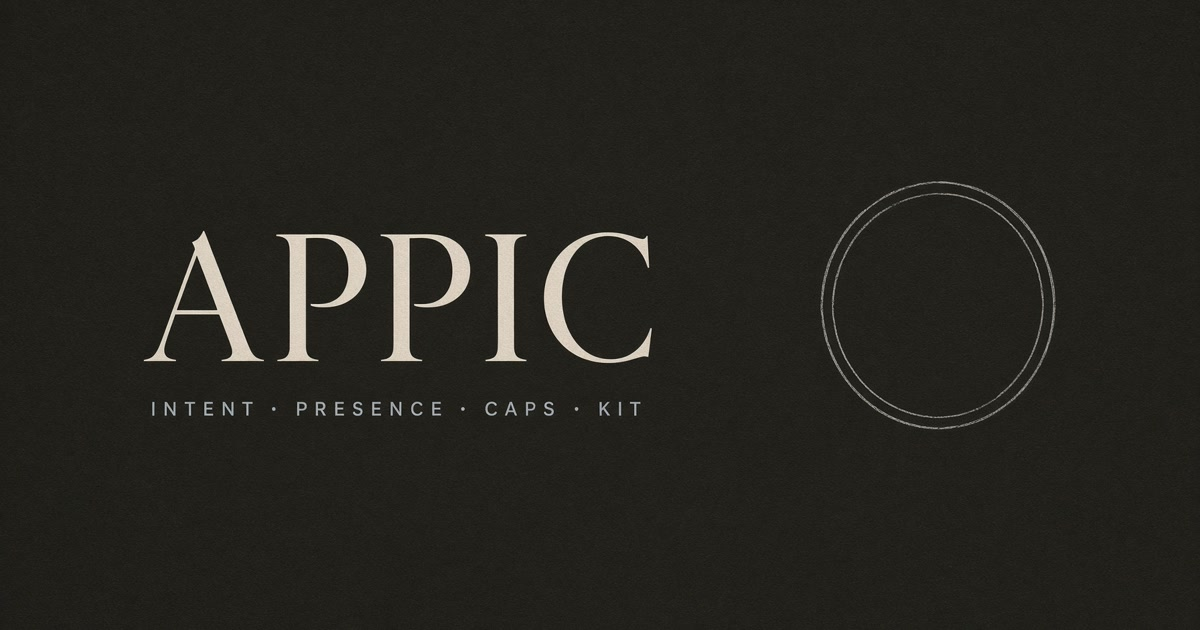
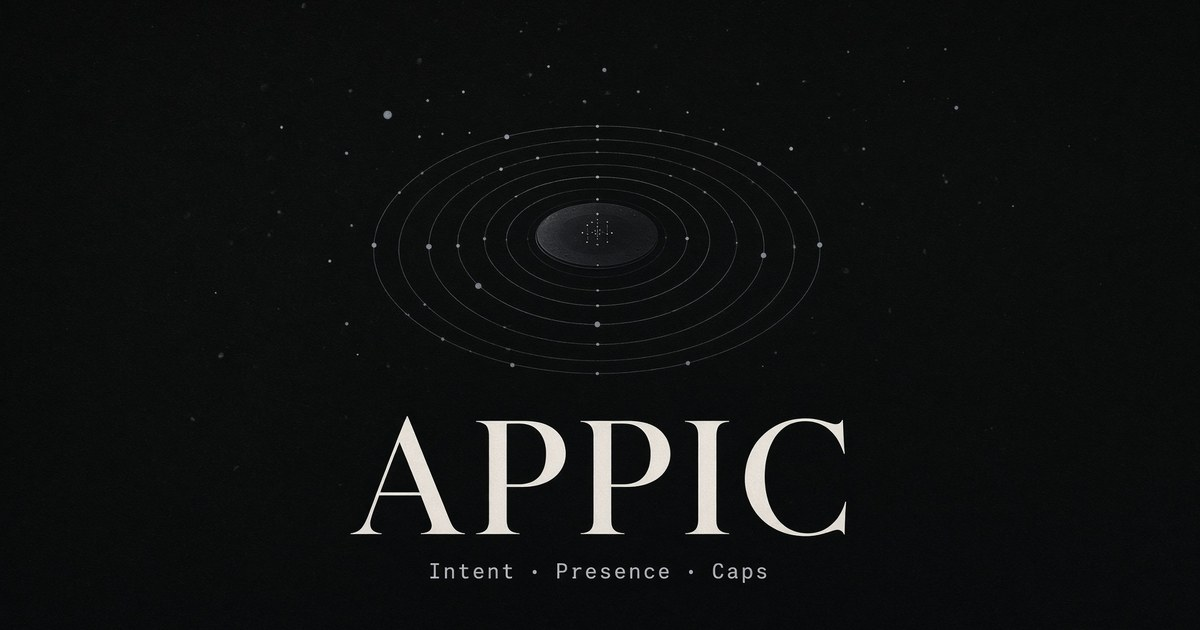
Constellation table: 14 rooms as named stars around the nucleus.
Sight is MorphState. Walk is Clock A. Pulse still binds Clock B.
Updated Grok Build metaprompt and share card for ux-compose 7ea3eb8.

diff --git a/appic/static/css/appic.css b/appic/static/css/appic.css
@@ -537,6 +537,86 @@ table.data th { color: var(--fg-subtle); font-weight: 500; }
   border: 1px solid var(--border);
   background: var(--bg-elevated);
 }
+.bench.is-on { border-color: var(--border-strong); color: var(--fg); }
+.bench-name { font-family: var(--font-display); }
+
+.constellation {
+  position: relative;
+  min-height: min(62vh, 560px);
+  border: 1px solid var(--border);
+  border-radius: var(--radius-xl);
+  background:
+    radial-gradient(circle at 50% 50%, color-mix(in oklab, var(--fg) 7%, transparent), transparent 44%),
+    radial-gradient(900px 420px at 8% -8%, color-mix(in oklab, var(--accent) 6%, transparent), transparent 55%),
+    var(--bg-elevated);
+  overflow: hidden;
+}
+.constellation::before,
+.constellation::after {
+  content: "";
+  position: absolute;
+  inset: 18%;
+  border-radius: 50%;
+  border: 1px solid var(--border);
+  pointer-events: none;
+}
+.constellation::after { inset: 8%; opacity: 0.55; }
+.constellation .nucleus {
+  position: absolute;
+  left: 50%; top: 50%;
+  transform: translate(-50%, -50%);
+  width: min(240px, 58%);
+  text-align: center;
+  display: grid; gap: 8px; justify-items: center;
+  padding: var(--space-5);
+  border-radius: 50%;
+  border: 1px solid var(--border-strong);
+  background: color-mix(in oklab, var(--surface) 90%, transparent);
+  z-index: 2;
+}
+.nucleus-name {
+  font-family: var(--font-display);
+  font-size: 1.35rem;
+  letter-spacing: var(--tracking-display);
+}
+.star {
+  position: absolute;
+  transform: translate(-50%, -50%);
+  z-index: 3;
+  display: grid;
+  justify-items: center;
+  gap: 6px;
+  min-width: 72px;
+  min-height: 44px;
+  padding: 6px;
+  color: var(--fg-muted);
+  background: transparent;
+}
+.star-dot {
+  width: 8px; height: 8px;
+  border-radius: 50%;
+  background: var(--fg-muted);
+  box-shadow: 0 0 0 6px color-mix(in oklab, var(--fg) 4%, transparent);
+}
+.star-name {
+  font-family: var(--font-display);
+  font-size: 0.92rem;
+  letter-spacing: var(--tracking-display);
+}
+.star.is-on { color: var(--fg); }
+.star.is-on .star-dot {
+  background: var(--accent);
+  box-shadow:
+    0 0 0 8px color-mix(in oklab, var(--accent) 14%, transparent),
+    0 0 18px color-mix(in oklab, var(--accent) 35%, transparent);
+}
+.star:hover { color: var(--fg); }
+
+@media (max-width: 720px) {
+  .constellation { min-height: 420px; }
+  .constellation .nucleus { width: min(200px, 70%); padding: var(--space-4); }
+  .star-name { font-size: 0.75rem; }
+}
 .bench.is-on { border-color: var(--border-strong); background: var(--surface); }
 .bench-name { font-family: var(--font-display); }
 

diff --git a/appic/routes/home.py b/appic/routes/home.py
@@ -37,6 +37,25 @@ BENCHES = (
     ("you", "You", "table · intent"),
 )
 
+# Foundry floor. Positions are percent of the constellation sky.
+# Nucleus is the Table. Stars are rooms you can sight, then walk.
+STARS = (
+    ("door", "/enter", "Door", 10, 22, "Login and OTP. Caps on the hinge."),
+    ("desk", "/desk", "Desk", 28, 10, "Sidebar, Command, pull to refresh."),
+    ("house", "/house", "House", 52, 7, "Anchored family. Typeahead delay."),
+    ("visit", "/visit", "Visit", 74, 16, "Stepper, Plans, Dialog confirm."),
+    ("signal", "/signal", "Signal", 90, 32, "Wave 1. Handle threshold:48."),
+    ("author", "/author", "Author", 92, 56, "act / tick / field / maybe_*."),
+    ("press", "/copy", "Press", 82, 78, "copy_component. Not a card."),
+    ("chrome", "/overlay", "Chrome", 60, 90, "OverlayChrome. Edge family."),
+    ("notes", "/notes", "Notes", 38, 92, "AttachNote. Silence was the defect."),
+    ("atelier", "/atelier", "Atelier", 16, 84, "Presence. stagger_in. share."),
+    ("lattice", "/lattice", "Lattice", 6, 60, "Caps as seals. Intent nucleus."),
+    ("trace", "/trace", "Trace", 8, 40, "Doctor. Hard vs teaching."),
+    ("clocks", "/clocks", "Clocks", 40, 18, "GET is Clock A. Action is B."),
+    ("relay", "/relay", "Relay", 70, 44, "Three serve clocks. Soft morph."),
+)
+
 
 class Home(Component):
     id = "home"
@@ -44,6 +63,14 @@ class Home(Component):
     stamp = MorphState("idle")
     query = MorphState("")
     bench = MorphState("you")
+    sight = MorphState("table")
+
+    def _sighted(self):
+        key = str(self.sight or "table")
+        for row in STARS:
+            if row[0] == key:
+                return row
+        return ("table", "/", "Table", 50, 50, "The document is the composition root made visible.")
 
     def render(self):
         n = int(HOST.pulse or 0)
@@ -69,6 +96,20 @@ class Home(Component):
             )
             for key, name, role in BENCHES
         ]
+        seen = self._sighted()
+        stars = [
+            button(
+                span("", className="star-dot", aria_hidden="true"),
+                span(label, className="star-name"),
+                type="button",
+                className="star" + (" is-on" if self.sight == key else ""),
+                id=f"star-{key}",
+                style=f"left:{x}%;top:{y}%",
+                title=law,
+                **control("home.sight", room=key),
+            )
+            for key, href, label, x, y, law in STARS
+        ]
         return section(
             div(
                 span("page unit · App.mount · progressive L3 · Morph then Play", className="eyebrow"),
@@ -78,9 +119,9 @@ class Home(Component):
                     className="hero-title",
                 ),
                 p(
-                    "A foundry OS authored as legal Results of Ops. "
-                    "You issue intent. The document morphs. Caps gate the verbs that charge. "
-                    "The kit is a house you own. Signal is a grammar you can feel.",
+                    "A nocturnal foundry OS. You issue intent. The document morphs. "
+                    "Caps gate the verbs that charge. The kit is a house you own. "
+                    "Sight a star. Walk the room. The law is under your finger.",
                     className="lede",
                 ),
                 div(
@@ -106,6 +147,7 @@ class Home(Component):
                     span(f"L{int(Level(HOST.level) if HOST.level else 0)}", className="chip is-on"),
                     span(f"ux-compose {__version__}", className="chip"),
                     span(f"HAS_DOM · {'on' if HAS_DOM else 'shim'}", className="chip"),
+                    span("constellation · 14 rooms", className="chip"),
                     className="chip-row",
                 ),
                 form(
@@ -124,6 +166,31 @@ class Home(Component):
                     data_ux="1",
                 ),
                 className="hero",
+            ),
+            div(
+                div(
+                    h2("Constellation"),
+                    p(
+                        "Every public surface of ux-compose sits in a room. "
+                        "Sight a star — MorphState names the pose. Walk it — Clock A GET.",
+                        className="muted",
+                    ),
+                    className="section-head spread",
+                ),
+                div(
+                    *stars,
+                    div(
+                        span("sighted", className="nucleus-kicker"),
+                        span(seen[2], className="nucleus-name"),
+                        p(seen[5], className="muted tiny"),
+                        a("Walk this room", href=seen[1], className="btn btn-primary"),
+                        className="nucleus",
+                        id="constellation-nucleus",
+                    ),
+                    className="constellation",
+                    id="constellation",
+                ),
+                className="house",
             ),
             div(
                 article(
@@ -209,6 +276,18 @@ class Home(Component):
             self,
             maybe_plan("seat", f"#bench-{self.bench}", ms=120),
             extra_ops=[notify(f"seated · {self.bench}")],
+        )
+
+    @action(caps=())
+    def sight(self, room: str = "table", **kwargs):
+        keys = {row[0] for row in STARS}
+        self.sight = room if room in keys else "table"
+        tick(self)
+        label = self._sighted()[2]
+        return update_with(
+            self,
+            maybe_plan("sight", "#constellation-nucleus", ms=120),
+            extra_ops=[notify(f"sighted · {label}")],
         )
 
 

diff --git a/appic/server.py b/appic/server.py
@@ -24,9 +24,8 @@ NAV = (
     ("/", "Table"),
     ("/enter", "Door"),
     ("/house", "House"),
-    ("/copy", "Copy"),
-    ("/author", "Author"),
     ("/copy", "Press"),
+    ("/author", "Author"),
     ("/overlay", "Chrome"),
     ("/atelier", "Atelier"),
     ("/trace", "Trace"),

diff --git a/GROK_BUILD_PROMPT.md b/GROK_BUILD_PROMPT.md
@@ -1,5 +1,5 @@
 # Grok Build prompt — APPIC on ux-compose 0.1.0
-## Architecture era · full utilisation: ownership ritual, doctor scan families, presence cookbook
+## Architecture era · full utilisation · constellation table
 
 Pin: [bitplorer/ux-compose](https://github.com/bitplorer/ux-compose) `@ main`
 SHA **`7ea3eb8813d280a975c4a41d23a2e2d4de40a506`**.
@@ -23,15 +23,23 @@ continuity is unfinished.
 Repo **appic already exists**. Do not create a second repo. Consume the
 running foundry; upgrade it; replace stale files that predate this pin.
 
-### Executed 2026-09-03 (this Grok Build)
+### Executed 2026-09-04 (this Grok Build)
 
 Deep-dived `ux_compose.__all__`, kit `CATALOG` (23 stems), `kit/copy.py`
 (not a card), OverlayChrome, author door, attach notes, doctor scan
 families, Presence cookbook, Clock A payload doors, Wave 1 Signal.
-Library SHA unchanged. Closed the last hole: **`/copy` is a live Press
-room** — `copy_component` / `find_app_root` / `KitCopyError` / 23 owned
-stems / OverlayChrome-not-a-stem. Pulse morph verified (Clock B). Serve
-is uvicorn on `0.0.0.0:8080`. No React / JS / TS / TSX as source of truth.
+Library SHA unchanged. This generation closes the **constellation table**:
+14 rooms as named stars around the Table nucleus. Sight is MorphState.
+Walk is Clock A. Pulse still uses `bind(self.beat)`. Serve is uvicorn on
+`0.0.0.0:8080`. No React / JS / TS / TSX as source of truth.
+
+Previous generations shipped Clock A, the ownable kit, Wave 1 Signal,
+Typeahead hits-slot, Relay, ADR 0004 rooms, `/copy` press, doctor residuals,
+Presence cookbook. A foundry that hides its rooms as a gallery is unfinished.
+A foundry whose table is a constellation is the product.
+
+Repo **appic already exists**. Do not create a second repo. Consume the
+running foundry; upgrade it; replace stale files that predate this pin.
 
 ---
 
@@ -825,7 +833,7 @@ for sheets and action sheets (x=28 / y=32); fade scrim + rise panel for dialogs.
 
 | Path | Unit | Must exercise |
 |---|---|---|
-| `/` Table | `Index` | Pulse counter+stamp via official `tick()`, **`bind(self.beat)`**, intent field, KPI, benches, last Ops, `Level` badge, `__version__` chip, doors into Desk / House / Visit / Enter / Signal / Author / Notes / Overlay / Copy |
+| `/` Table | `Index` | Pulse counter+stamp via official `tick()`, **`bind(self.beat)`**, intent field, KPI, benches, last Ops, **constellation of 14 rooms** (sight is MorphState, walk is Clock A), `Level` badge, `__version__` chip, doors into Desk / House / Visit / Enter / Signal / Author / Notes / Overlay / Copy |
 | `/atelier` | `Atelier` | Shelf filter/sort/`stagger_in`, wishlist, compare≤3, lightbox, add-to-bag, link to PDP. **Presence cookbook** named on the sort |
 | `/atelier/{sku}` | `Sku` | DirectoryRoutes `[sku]`. **No `get`.** `render(self, sku="")`. `scene.share` into bag |
 | `/commission` | `Commission` | 4-step wizard + radio/checkbox/slider/date/file/password/autosave/limited note/OTP Cap `identity.verify` (`2048`) / place Cap `orders.place` |
@@ -863,7 +871,8 @@ Login blocked: `@blocked.test`. OTP refuse: `000000`.
 ### Radical interactions (must all work)
 
 1. **Hold an intent on the Table.** Type a verb, press the nucleus, Clock B
-   fires, Trace records the Op, Lattice lights the matching star.
+   fires, Trace records the Op, Lattice lights the matching star. **Sight a
+   constellation star** — MorphState names the pose; Walk is Clock A GET.
 2. **Walk through the Door.** Sign in (Login Cap). Verify (OTP Cap). The ribbon
    bursts a wax seal. `@blocked.test` is refused.
 3. **Sit at the Desk.** Pull-to-refresh the ledger. Command palette `⌘K` posts

diff --git a/README.md b/README.md
@@ -20,6 +20,9 @@ by teaching. Presence is continuous.
 copied by hand, `copy_component` / `find_app_root` / `KitCopyError` made
 visible. Pressing an owned stem reports already-owned; unknown stems fail closed.
 
+The Table is a **constellation** (2026-09-04): 14 rooms as named stars around
+the nucleus. Sight is MorphState. Walk is Clock A.
+
 ## Run
 
 ```bash
@@ -37,7 +40,7 @@ uxcompose serve dev
 
 | Path | Room |
 |------|------|
-| `/` | Table — pulse, hold an intent, sit a bench |
+| `/` | Table — pulse, hold an intent, sight a constellation star, sit a bench |
 | `/enter` | Door — owned Login + OTP. Caps `auth.login` / `auth.otp` |
 | `/desk` | Desk — Sidebar, Breadcrumb, Tabs, PullRefresh, Accordion, Command, Toast |
 | `/house` | House — Typeahead, Combobox, Select, Dropdown, Sheet, Carousel, Table, Pagination, ContextMenu, ActionSheet. Anchored family lives here |

diff --git a/FEATURE_INVENTORY.md b/FEATURE_INVENTORY.md
@@ -23,6 +23,10 @@ client SPA as source of truth.
 
 This is the law for [GROK_BUILD_PROMPT.md](GROK_BUILD_PROMPT.md).
 
+The Table constellation (2026-09-04) is a product surface, not a sixth catalog:
+14 rooms as named stars around the nucleus. Sight is MorphState. Walk is Clock A.
+
+
 ---
 
 ## 0. Three doors (ADR 0004)
